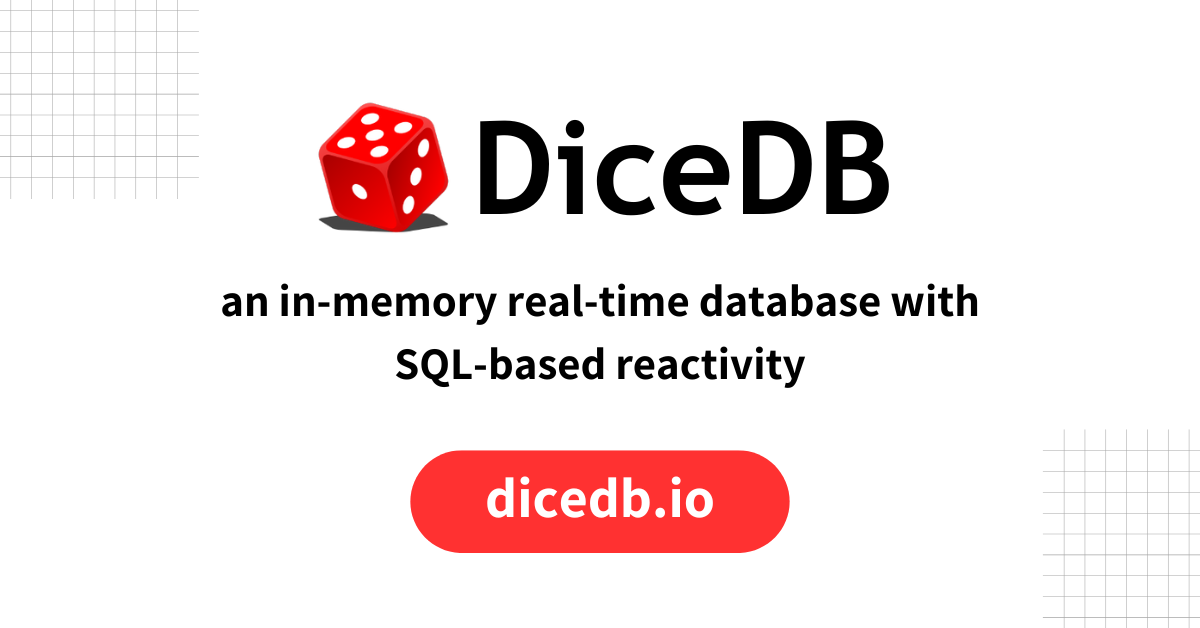
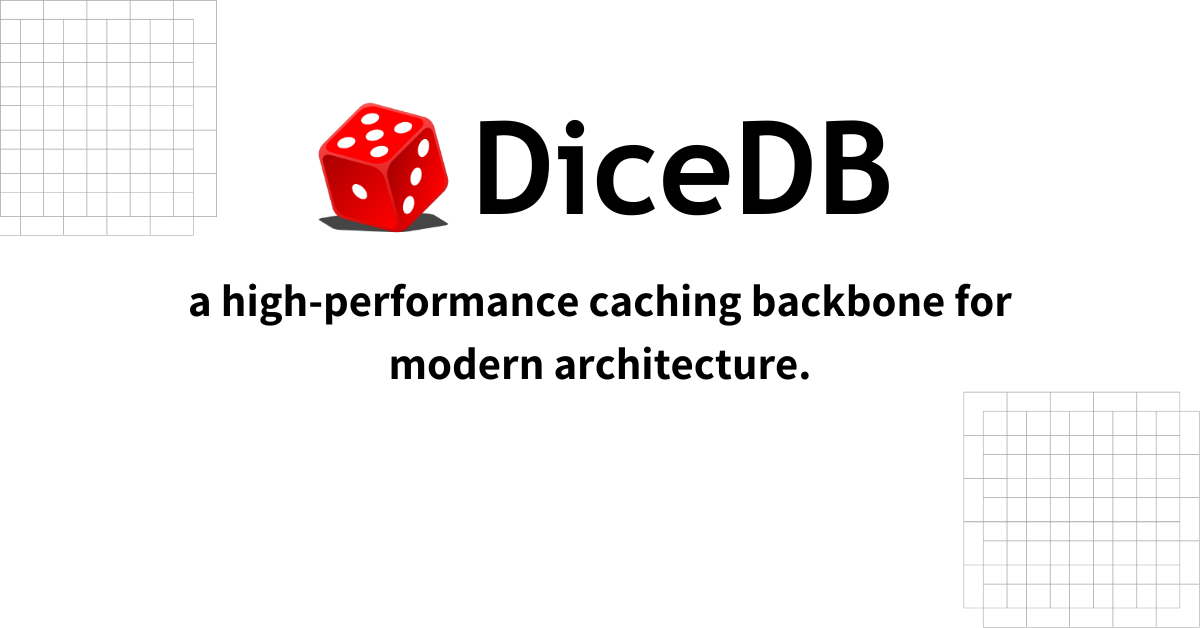
Updating OG Image

diff --git a/docs/src/content/blog/dicedb-is-open-source.md b/docs/src/content/blog/dicedb-is-open-source.md
@@ -54,12 +54,14 @@ together. Every line of code written to build DiceDB is open for inspection, lea
 ## A Glimpse Into the Future
 
 This license switch isn't just a symbolic move; it's a strategic decision. Our roadmap
-includes multi-tenancy, horizontal scalability, infra abstraction, reactivity,
-observability, easy cluster management, and a capable control plane with high observability.
+includes multi-tenancy, horizontal scalability, infrastructure abstraction, reactivity,
+observability, persistence, fault tolerance, seamless cluster management, and a
+robust control plane with high observability.  
 
-We're also advancing persistence, fault tolerance, query capabilities, and data structure support.
-Additionally, lightning-fast replica creations will extend DiceDB's capabilities to handle production-grade workloads
-with resumability and reliability.
+We are also enhancing query capabilities and data structure support to meet
+the demands of AI-first applications—an approach poised to become the standard
+in the coming decade. Furthermore, lightning-fast replica creation will reinforce
+DiceDB's ability to handle production-grade workloads with exceptional reliability and resumability.
 
 By going fully open-source under AGPL 3.0, we're inviting the
 community to join us in building the caching backbone that powers the next generation of
